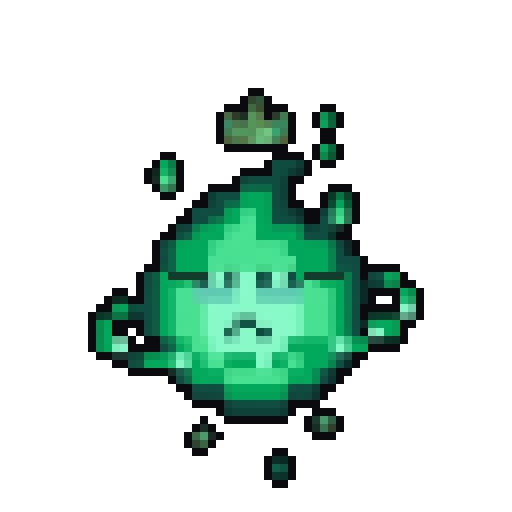
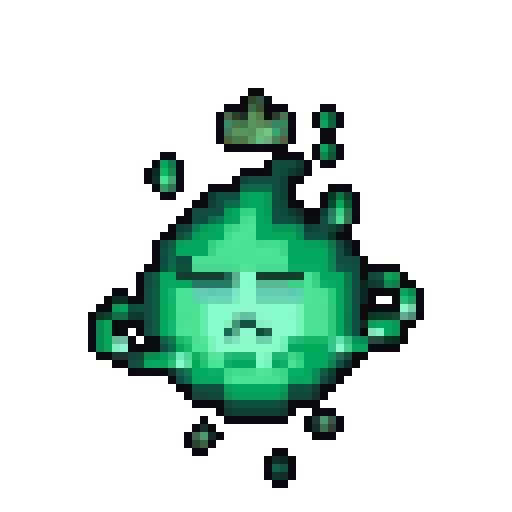
feat(ui): add gentle vertical floating hover to Cuprum and fix eye blink alignment and click interaction

Changed region(s): [[0.5, 0.5, 0.6875, 0.5625], [0.3125, 0.5, 0.4062, 0.5625], [0.4062, 0.5312, 0.4375, 0.5625]]

diff --git a/frontend/src/components/CuprumCompanionPanel.tsx b/frontend/src/components/CuprumCompanionPanel.tsx
@@ -153,8 +153,7 @@ export function CuprumCompanionPanel({
   const [activeFeatureId, setActiveFeatureId] = useState<string | null>(null);
   const [selectedDateIdx, setSelectedDateIdx] = useState<number | null>(null);
   const [expression, setExpression] = useState<SpriteExpression>('idle-1');
-  const [isAlerting, setIsAlerting] = useState(false);
-
+  const alertTimerRef = useRef<number | null>(null);
   const blinkTimerRef = useRef<number | null>(null);
   const animIntervalRef = useRef<number | null>(null);
 
@@ -292,7 +291,19 @@ export function CuprumCompanionPanel({
 
   // --- Dynamic Retro Pixel Animation State Machine ---
   useEffect(() => {
-    if (isAlerting) return;
+    // Inject floating hover keyframes dynamically to bypass Vite CSS bundle extraction
+    const styleId = 'cuprum-float-style';
+    if (typeof document !== 'undefined' && !document.getElementById(styleId)) {
+      const style = document.createElement('style');
+      style.id = styleId;
+      style.textContent = `
+        @keyframes cuprumPetFloat {
+          0%, 100% { transform: translateY(0px); }
+          50% { transform: translateY(-5px); }
+        }
+      `;
+      document.head.appendChild(style);
+    }
 
     // Continuous 2-frame fire particle floating animation
     animIntervalRef.current = window.setInterval(() => {
@@ -302,39 +313,37 @@ export function CuprumCompanionPanel({
     return () => {
       if (animIntervalRef.current) clearInterval(animIntervalRef.current);
     };
-  }, [isAlerting]);
+  }, []);
 
   // Periodic Blink every 3.8s
   useEffect(() => {
     const triggerBlink = () => {
-      if (!isAlerting) {
-        setExpression('blink');
-        setTimeout(() => {
-          setExpression('idle-1');
-        }, 160);
-      }
+      setExpression((prev) => (prev.startsWith('idle') ? 'blink' : prev));
+      window.setTimeout(() => {
+        setExpression((prev) => (prev === 'blink' ? 'idle-1' : prev));
+      }, 160);
       blinkTimerRef.current = window.setTimeout(triggerBlink, 3400 + Math.random() * 1200);
     };
 
     blinkTimerRef.current = window.setTimeout(triggerBlink, 2800);
     return () => {
       if (blinkTimerRef.current) clearTimeout(blinkTimerRef.current);
+      if (alertTimerRef.current) clearTimeout(alertTimerRef.current);
     };
-  }, [isAlerting]);
+  }, []);
 
   // Handle clicking the Pet Mascot (Interactive Summon / Dismiss)
   const handlePetClick = () => {
-    setIsAlerting(true);
-    setExpression('alert');
     setIsOpen((prev) => !prev);
-    setTimeout(() => {
-      setIsAlerting(false);
+    setExpression('alert');
+    if (alertTimerRef.current) clearTimeout(alertTimerRef.current);
+    alertTimerRef.current = window.setTimeout(() => {
       setExpression('idle-1');
-    }, 380);
+    }, 280);
   };
 
-  const currentWebp = `/assets/cuprum/${moodMeta.prefix}-${expression}.webp?v=retro-outline-v2`;
-  const currentPng = `/assets/cuprum/${moodMeta.prefix}-${expression}.png?v=retro-outline-v2`;
+  const currentWebp = `/assets/cuprum/${moodMeta.prefix}-${expression}.webp?v=retro-outline-v3`;
+  const currentPng = `/assets/cuprum/${moodMeta.prefix}-${expression}.png?v=retro-outline-v3`;
 
   return (
     <div
@@ -418,6 +427,7 @@ export function CuprumCompanionPanel({
               style={{
                 width: 140,
                 height: 140,
+                animation: 'cuprumPetFloat 3s cubic-bezier(0.42, 0, 0.58, 1) infinite',
               }}
             >
               <picture>
